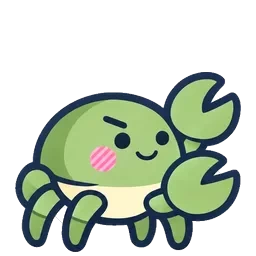
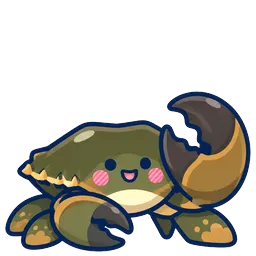
Art: a picture for every fishing spot, the lobster bed and two crabs (#592)
The owner's optional fish pack (Part C) is in:

- FS4 and FS5: 33 fishing spots get a picture of their own
  (assets/world/obj-<spot>_spot.webp, 140 px wide, no border), each showing
  its fish's tell-tale back, fin or leap, registered in WORLD_ART. The net,
  pool, coast and harpoon kinds no longer give their spots the shared tool
  picture.
- The Asian arowana pool (FS4 cell 15) is skipped: it came back as a copy of
  the endgame Arowana pool's walled pond (gold arowana, lotus, gold crest), so
  it keeps the freshwater rod picture (FISH_SPOT_BORROW in objects.js) until
  it is redrawn.
- The lobster bed is repainted with a spiny lobster in the crate; its box is
  36 px tall (was 32) so the slightly taller picture is drawn as wide as before.
- CR-1: the mud crab and kelong crab are new drawings (run through
  tools/unify_creatures.py), not the giant crab recoloured. The mud crab's
  animation parts were cut from the old green crab, so its rig is retired and
  it is drawn from its new still picture; their portrait crops are re-measured.
- A test keeps every spot on its own painting.

Claude-Session: https://claude.ai/code/session_019kevwHHi9fDprq4oAiuq6N

diff --git a/src/data/objects.js b/src/data/objects.js
@@ -825,17 +825,20 @@ for (const [id, h] of Object.entries(HUNT)) {
     examine: `${h.examine} (Hunter ${h.level})` };
 }
 
-// Fishing spots with one species each (see the Fishing block above). Each kind
-// borrows the picture of the old mixed spot it was carved from: a net, rod,
-// coastal rod or harpoon spot. The grouper reef (cage) has a picture of its own
-// (obj-grouper_spot), so it no longer borrows the lobster bed's crate.
+// Fishing spots with one species each (see the Fishing block above). Each spot
+// has a picture of its own (assets/world/obj-<id>.webp: its fish's tell-tale
+// back, fin or leap) rather than the net, rod, coastal rod or harpoon spot it was
+// carved from. FISH_SPOT_BORROW lists any still waiting for theirs: the Asian
+// arowana pool's came back as a copy of the endgame Arowana pool's walled pond,
+// so it keeps the freshwater rod's picture until it is redrawn.
+const FISH_SPOT_BORROW = { asian_arowana_spot: 'obj-rod_spot' };
 // [id, name, label, fish, level, xp, examine]
 const FISH_SPOT_KINDS = {
-  net: { verb: 'Net', emoji: '🎣', tool: 'net', art: 'obj-fishing_spot' },
-  pool: { verb: 'Lure', emoji: '🎣', tool: 'rod', art: 'obj-rod_spot' },
-  coast: { verb: 'Cast', emoji: '🎣', tool: 'rod', art: 'obj-sea_rod_spot' },
+  net: { verb: 'Net', emoji: '🎣', tool: 'net' },
+  pool: { verb: 'Lure', emoji: '🎣', tool: 'rod' },
+  coast: { verb: 'Cast', emoji: '🎣', tool: 'rod' },
   cage: { verb: 'Cage', emoji: '🦞', tool: 'lobster_pot' },
-  harpoon: { verb: 'Harpoon', emoji: '🦈', tool: 'harpoon', art: 'obj-harpoon_spot' },
+  harpoon: { verb: 'Harpoon', emoji: '🦈', tool: 'harpoon' },
 };
 export const FISH_SPOTS = {
   net: [
@@ -887,7 +890,7 @@ export const FISH_SPOTS = {
 for (const [kind, list] of Object.entries(FISH_SPOTS)) {
   const k = FISH_SPOT_KINDS[kind];
   for (const [id, name, label, fish, level, xp, examine] of list) {
-    OBJECTS[id] = { name, label, type: 'fishing', verb: k.verb, emoji: k.emoji, blocking: false, art: k.art,
+    OBJECTS[id] = { name, label, type: 'fishing', verb: k.verb, emoji: k.emoji, blocking: false, art: FISH_SPOT_BORROW[id],
       skill: 'fishing', tool: k.tool, depleteChance: 0, respawn: 0,
       catches: [{ id: fish, level, xp, weight: 1 }], examine: `${examine} (Fishing ${level})` };
   }

diff --git a/src/render/sprites.js b/src/render/sprites.js
@@ -2550,7 +2550,12 @@ const WORLD_ART = {
   'obj-flower': [28, 26, 13], ...Object.fromEntries([1, 2, 3].flatMap((n) => [[`obj-flower-${n}`, [28, 26, 13]], [`obj-bush-${n}`, [34, 30, 14]]])),
   'obj-palm': [50, 66, 15], 'obj-lamp': [24, 54, 15], 'obj-sign': [28, 38, 15],
   'obj-fishing_spot': [42, 30, 12], 'obj-rod_spot': [42, 34, 12], 'obj-sea_rod_spot': [42, 34, 12],
-  'obj-fishing_cage': [42, 32, 12], 'obj-grouper_spot': [42, 32, 12], 'obj-harpoon_spot': [42, 34, 12],
+  'obj-fishing_cage': [42, 36, 12], 'obj-grouper_spot': [42, 32, 12], 'obj-harpoon_spot': [42, 34, 12],
+  // The one-fish spots' own pictures (FISH_SPOTS in objects.js), so they stop borrowing a tool spot's.
+  ...Object.fromEntries(['sardine', 'mackerel', 'salmon', 'tilapia', 'perch', 'keli', 'goby', 'pike', 'peacock_bass', 'belida', 'eel',
+    'temensis', 'snakehead', 'arapaima', 'milkfish', 'barramundi', 'mangrove_jack', 'queenfish', 'red_drum',
+    'golden_snapper', 'threadfin', 'pomfret', 'tenggiri', 'longfin', 'coral_trout', 'diamond_trevally', 'cobia', 'hybrid_grouper',
+    'giant_trevally', 'swordfish', 'stingray', 'shark', 'manta'].map((k) => [`obj-${k}_spot`, [42, 34, 12]])),
   'obj-bird_snare': [40, 34, 14], 'obj-squirrel_trap': [40, 34, 14], 'obj-lizard_snare': [40, 34, 14],
   'obj-mousedeer_trail': [40, 34, 14], 'obj-boar_pit': [42, 34, 14], 'obj-python_trap': [44, 34, 14],
   'obj-crocodile_trap': [44, 32, 14], 'obj-hornbill_nest': [40, 40, 14], 'obj-qilin_trail': [40, 34, 14],

diff --git a/src/render/creatureRigs.js b/src/render/creatureRigs.js
@@ -385,9 +385,8 @@ const RIG_DATA = {
   sambar_deer: { plan: 'quad', kind: 'species', fit: 0.926,
     order: ['tail', 'back_far', 'front_far', 'back_near', 'front_near', 'body', 'head'],
     piv: { tail: [0.1595, 0.6177], back_far: [0.3333, 0.8734], front_far: [0.6358, 0.8439], back_near: [0.2631, 0.6886], front_near: [0.5298, 0.7951], body: [0.4597, 0.6951], head: [0.5907, 0.5639], head_open: [0.5907, 0.5639] } },
-  mud_crab: { plan: 'crawl', kind: 'species', fit: 0.745,
-    order: ['legs_far', 'claw_far', 'legs_near', 'body', 'claw'],
-    piv: { legs_far: [0.1739, 0.6259], claw_far: [0.7129, 0.3469], legs_near: [0.3994, 0.6988], body: [0.4444, 0.4787], claw: [0.6839, 0.619], claw_open: [0.6839, 0.619] } },
+  // (The mud crab's parts were cut from the old green crab; its CR-1 repaint is a
+  // still picture until a parts sheet of the new drawing comes back.)
 };
 const TOWN_DATA = {
   farmer: { W: 229, H: 300, ref: [9, 9, 218, 296], piv: { body: [0.4694, 0.506], arm: [0.5775, 0.6075], body_blink: [0.4694, 0.506], arm_wave: [0.6228, 0.552] } },

diff --git a/src/data/portraitcrops.js b/src/data/portraitcrops.js
@@ -74,7 +74,7 @@ export const PORTRAIT_CROPS = {
   'species/jungle_spider': [0.5, 0.567, 0.737, 0.737],
   'species/jungle_wraith': [0.498, 0.507, 0.766, 0.766],
   'species/kancil': [0.5, 0.492, 0.721, 0.721],
-  'species/kelong_crab': [0.498, 0.604, 0.708, 0.708],
+  'species/kelong_crab': [0.5, 0.652, 0.788, 0.788],
   'species/keris_spirit': [0.5, 0.486, 0.73, 0.73],
   'species/king_cobra': [0.498, 0.452, 0.701, 0.701],
   'species/kingfisher': [0.5, 0.499, 0.788, 0.788],
@@ -96,7 +96,7 @@ export const PORTRAIT_CROPS = {
   'species/monitor_lizard': [0.5, 0.641, 0.788, 0.788],
   'species/moon_jellyfish': [0.5, 0.569, 0.621, 0.621],
   'species/mosquito': [0.5, 0.514, 0.689, 0.689],
-  'species/mud_crab': [0.5, 0.591, 0.724, 0.724],
+  'species/mud_crab': [0.5, 0.632, 0.788, 0.788],
   'species/mud_golem': [0.5, 0.567, 0.666, 0.666],
   'species/mud_lobster': [0.5, 0.591, 0.788, 0.788],
   'species/mudskipper': [0.5, 0.637, 0.788, 0.788],
